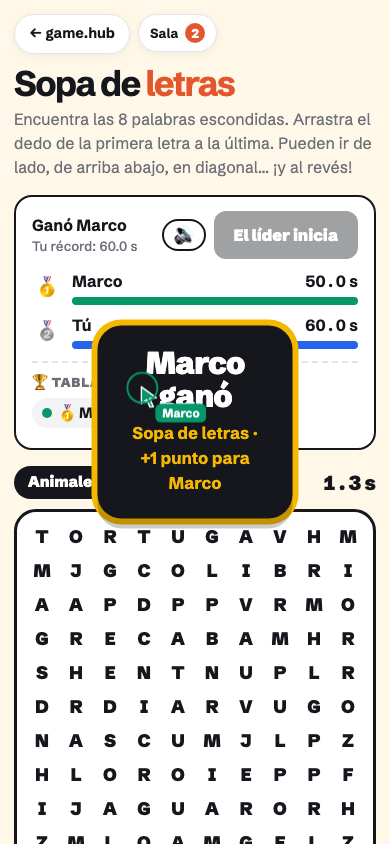
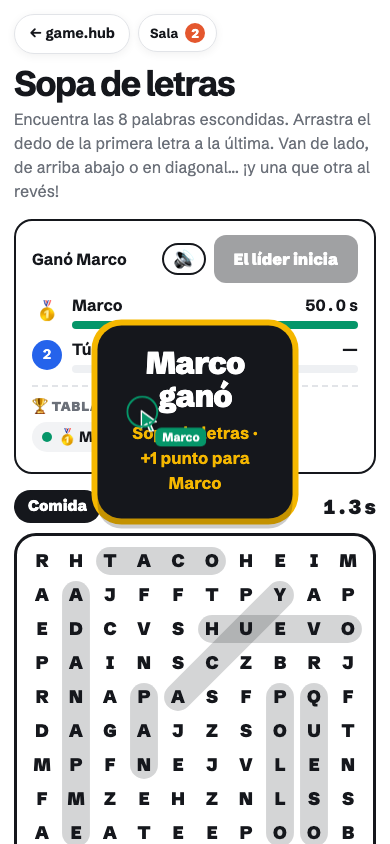
[Claude] tabla de la sala: el líder reenvía la tabla unida (revisión de Codex)
Claude-Session: https://claude.ai/code/session_01HjM58JQDXy3m4WBVLQBS7f

Changed region(s): [[0.0308, 0.154, 0.9846, 1.0], [0.3077, 0.4313, 0.5538, 0.5545], [0.3692, 0.0616, 0.6154, 0.1232]]

diff --git a/carrera.js b/carrera.js
@@ -166,7 +166,7 @@ window.Carrera=function(o){
     sala.al('mensaje',(d,de)=>{if(!d||d.app!==APP)return;const leader=sala.jugadores()[0]?.id;
       if(d.type==='ping'&&host())tx({type:'pong',to:de.id,t:d.t,now:Date.now()});
       if(d.type==='pong'&&d.to===me()&&de.id===leader&&pending.has(d.t)){const rtt=Date.now()-d.t;pending.delete(d.t);if(rtt<bestRTT){bestRTT=rtt;offset=d.now-(d.t+rtt/2)}}
-      if(d.type==='hello'&&host()){if(d.tabla&&typeof d.tabla==='object')guardarTabla(d.tabla);if(game)publish()}
+      if(d.type==='hello'&&host()){if(d.tabla&&typeof d.tabla==='object')guardarTabla(d.tabla);if(game){if(online())game.tabla=leerTabla();publish()}}
       if(d.type==='state'&&de.id===leader&&d.game)accept(d.game);
       if(d.type==='prog'&&game&&d.id===game.id&&Number.isFinite(d.n)&&Number.isFinite(d.max)&&d.max>0){prog[de.id]={n:d.n,max:d.max,tag:typeof d.tag==='string'?d.tag.slice(0,20):''};renderList()}
       receive(d,de)});
